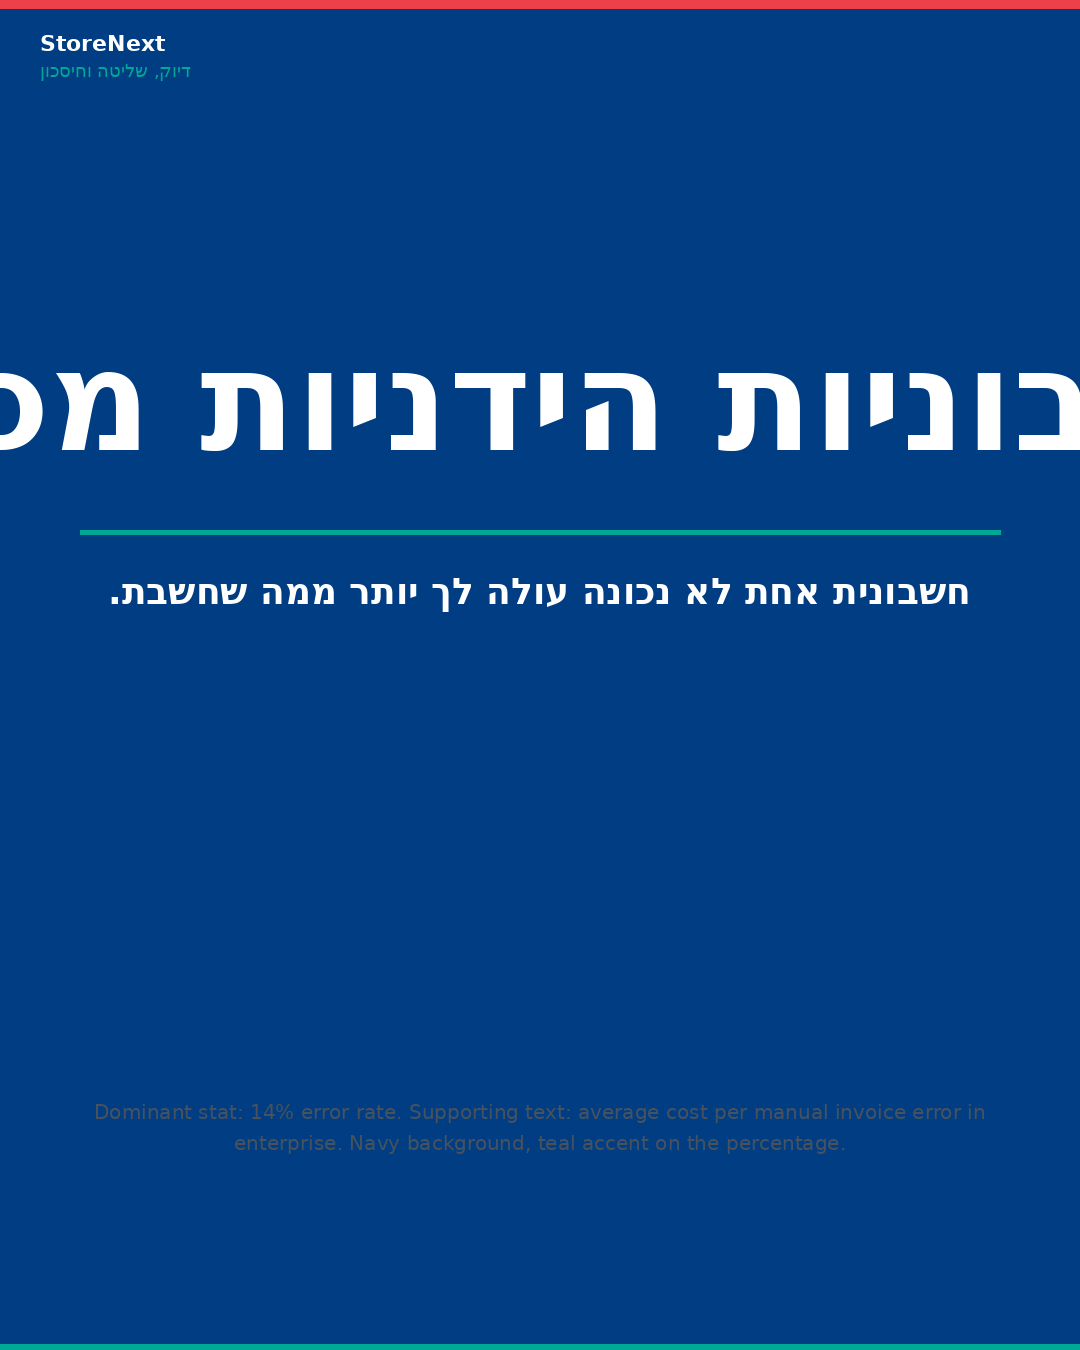
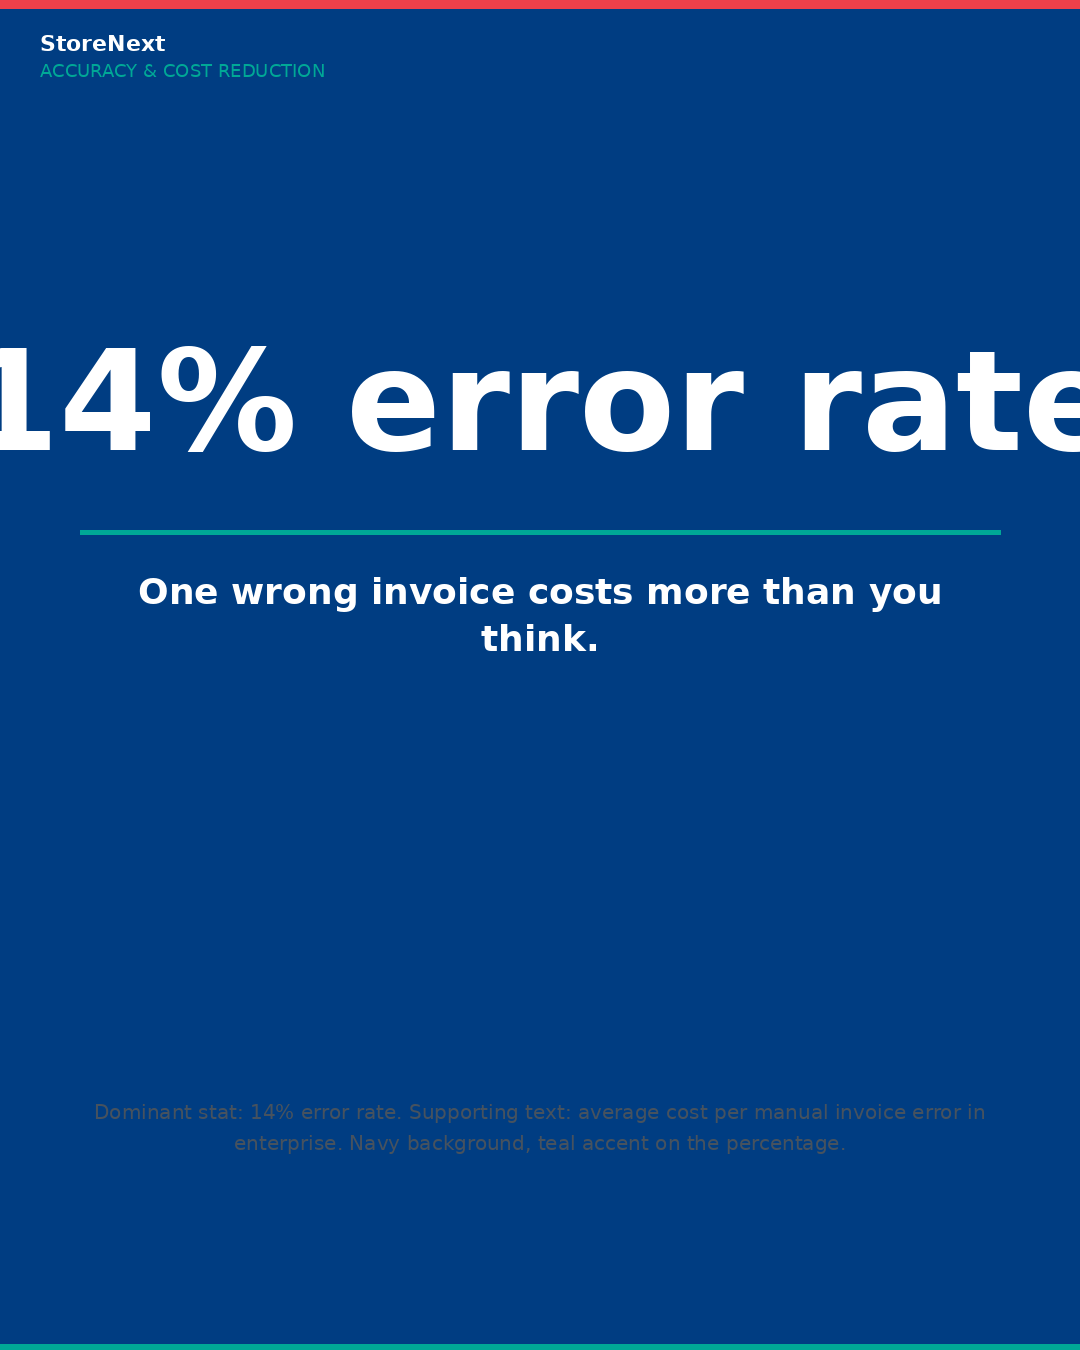
W25 visuals: regenerate in English; enforce English-only rule in visual-data.json

Changed region(s): [[0.0, 0.2489, 1.0, 0.3422], [0.0917, 0.4044, 0.8861, 0.4978], [0.0306, 0.0311, 0.3056, 0.0622]]

diff --git a/A-agents/copywriter-agent.md b/A-agents/copywriter-agent.md
@@ -104,6 +104,17 @@ For each angle provide:
 
 ---
 
+## visual-data.json — Language Rule
+
+**All fields in visual-data.json must be in English. No exceptions.**
+
+This includes: `topic`, `category`, `key_metric`, `hook`, `visual_direction`.
+
+The post text (final-post.md) may be in Hebrew only if explicitly instructed by Ran.
+The visual always accompanies content on LinkedIn — English visuals work for both Hebrew and English posts.
+
+---
+
 ## Success Criteria
 
 ✅ Article written in 30 minutes
@@ -112,6 +123,7 @@ For each angle provide:
 ✅ StoreNext voice (professional, data-driven)
 ✅ Mobile formatting applied
 ✅ No hype language
+✅ visual-data.json populated in English
 ✅ Ready for Gatekeeper review
 
 ## Skills Library
